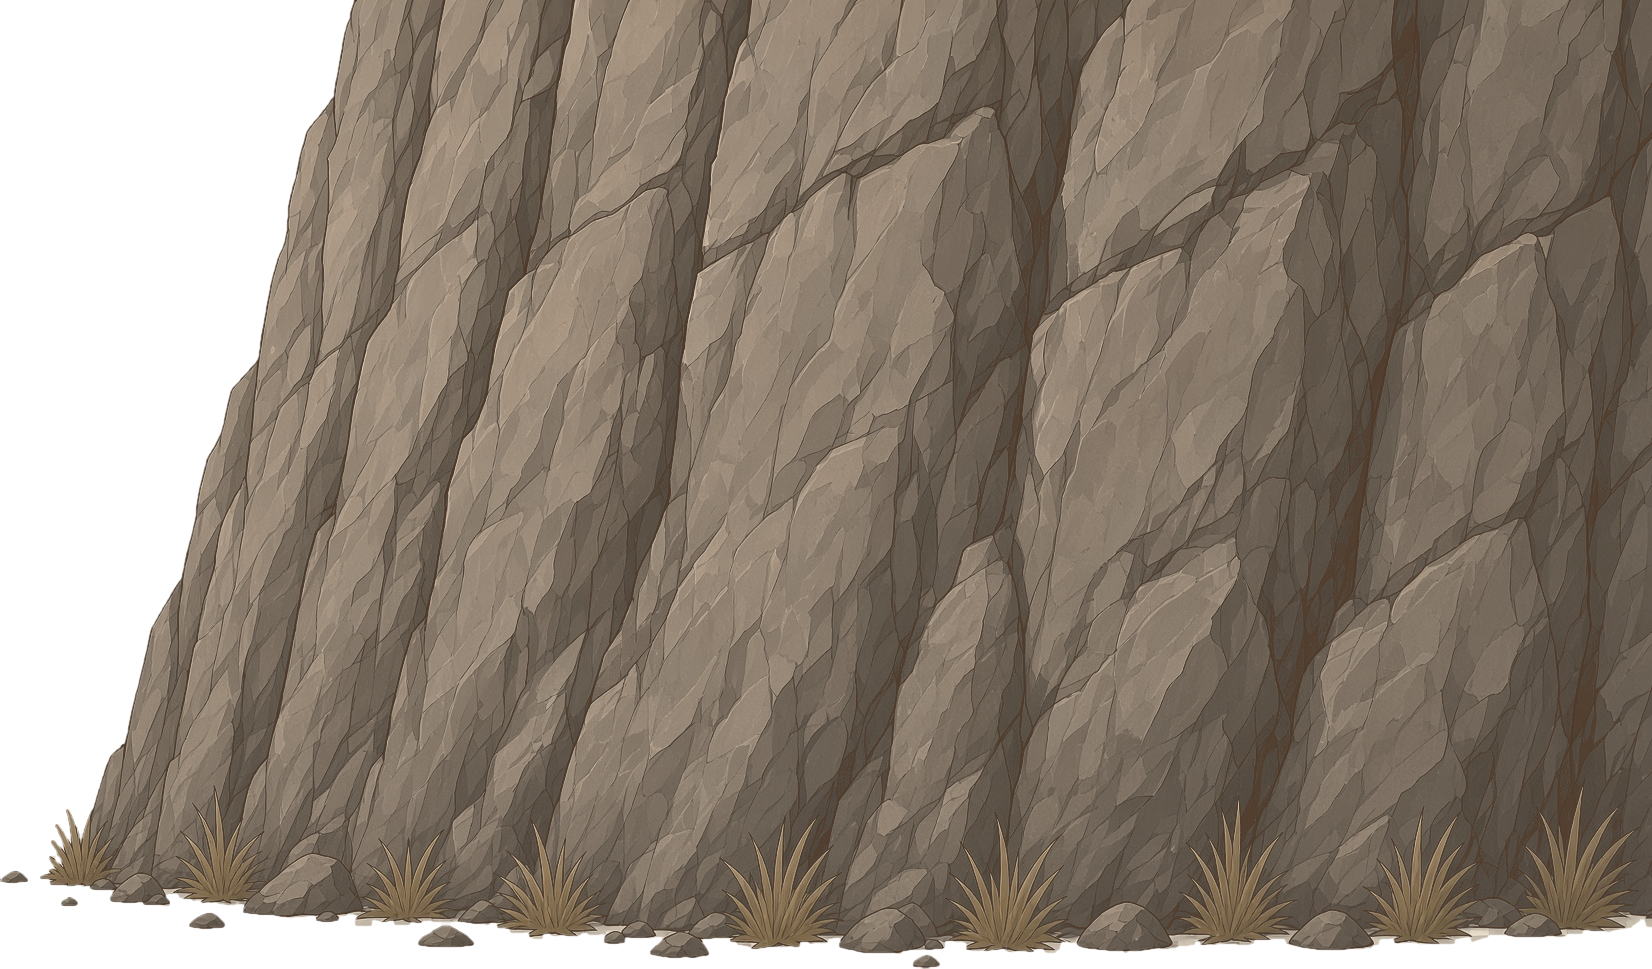
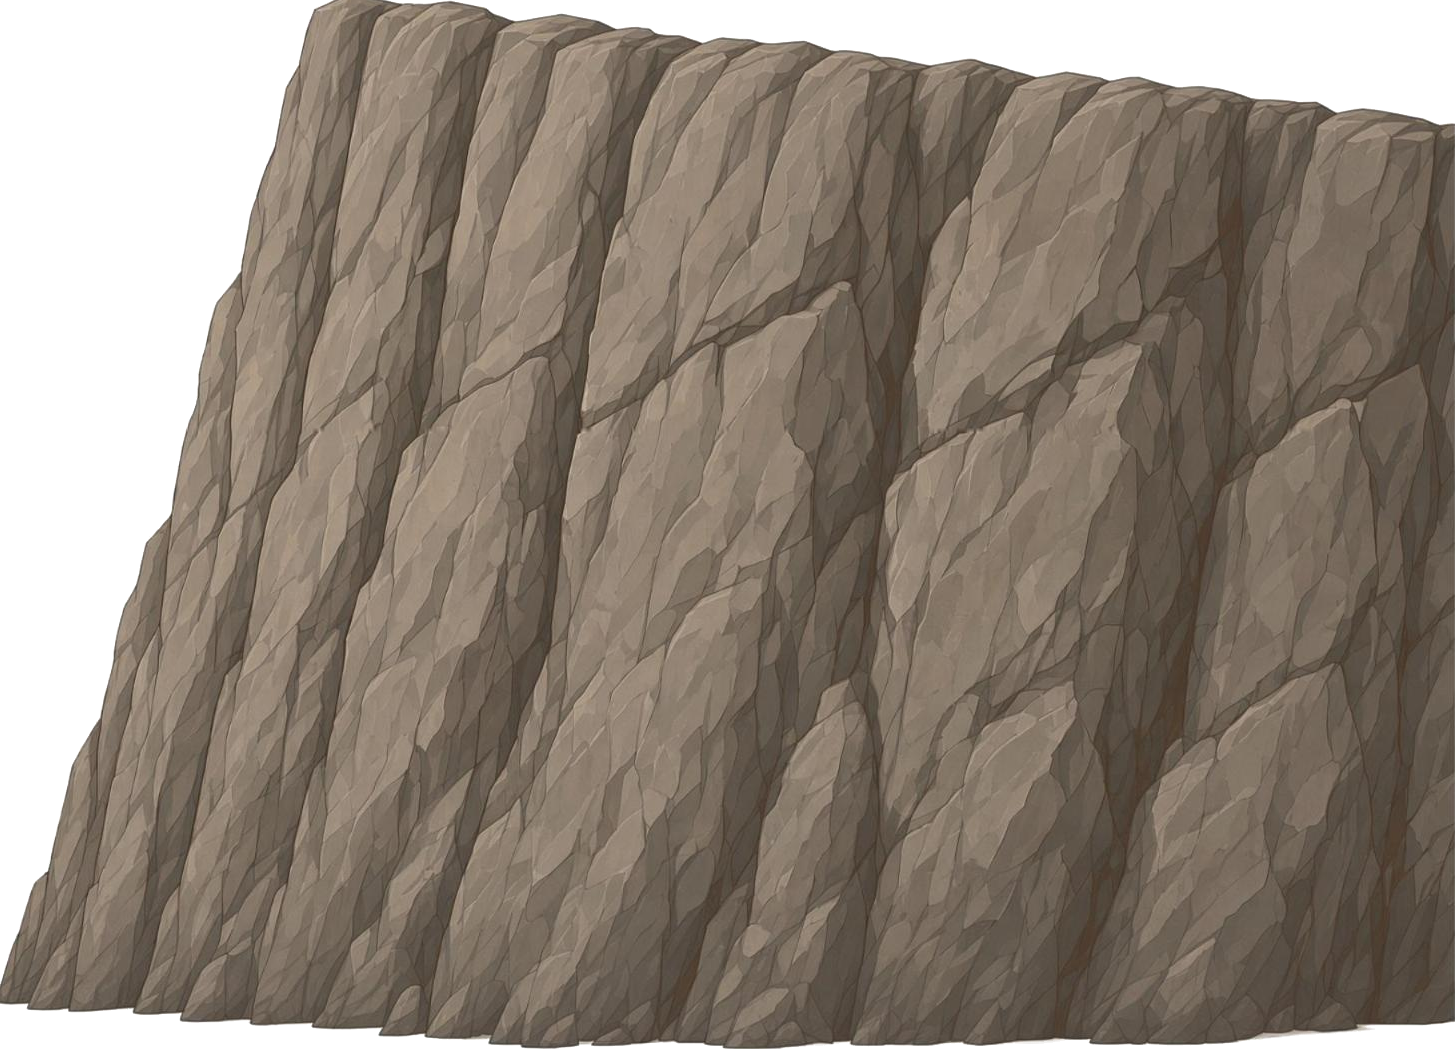
De rotswand heeft nu een afgewerkte top
De oude cliff.png was bovenaan recht afgesneden en hield op waar het scherm ophield bij de oude zoom.
Met view 0.8 (bijna elk level), een meeklimmende camera of de knoppen op een telefoon zag je die snijlijn
midden in de lucht. De plaat is in Grok aangevuld met een kam van hetzelfde steen, en het gras en de
steentjes aan de voet zijn eraf zodat ze los als decor kunnen. De wintervariant opnieuw uit tools/sneeuw.py,
nu met een sneeuwkap op de kam.

Claude-Session: https://claude.ai/code/session_01XPDva4Z93Do2nCFDQaJJyd

diff --git a/notities/wegwijzers.md b/notities/wegwijzers.md
@@ -48,6 +48,15 @@ het veld `sneeuw`: savanne of rots, en het dek in vier standen
 
 `cliffs`, het einde van het level
 
+De plaat (`design/cliff.png`, `CLIFF`) is zo hoog als het scherm bij de oude standaardzoom (`cliffAt`: `H * 0.82`),
+dus bij `view` 0.8, als de camera meeklimt of met de knoppen op een telefoon komt zijn bovenkant in beeld. Daarom heeft
+de plaat sinds 27-11-2026 een afgewerkte top: de oude cliff.png aangevuld in Grok (bron `design/bron/cliff_top_grok.jpg`,
+"Edit the reference image. Keep the existing rock cliff EXACTLY as it is ... extend the cliff upward ... give it a
+FINISHED top"), met het gras en de steentjes aan de voet eraf, zodat die los als decor kunnen. De wintervariant komt
+uit `tools/sneeuw.py cliff` en heeft nu een sneeuwkap op de kam. Een nieuwe rotsplaat hoort uit dezelfde familie te
+komen (hoekig grijsbruin gesteente met facetten): stuur een bestaande rots mee of bewerk het origineel, alleen een
+Ishmul-uitsnede als referentie gaf een ander soort steen.
+
 ## licht op de runerotsen
 
 `RUNE_LICHT`, `runeLichtMaak`, `runeGrondSchaduw`: de zon op een rots met een rune, uit dezelfde richting als de lichtkaart (`LK.zonHoek`, `zonRechts`); zie "runes op elke rots"
